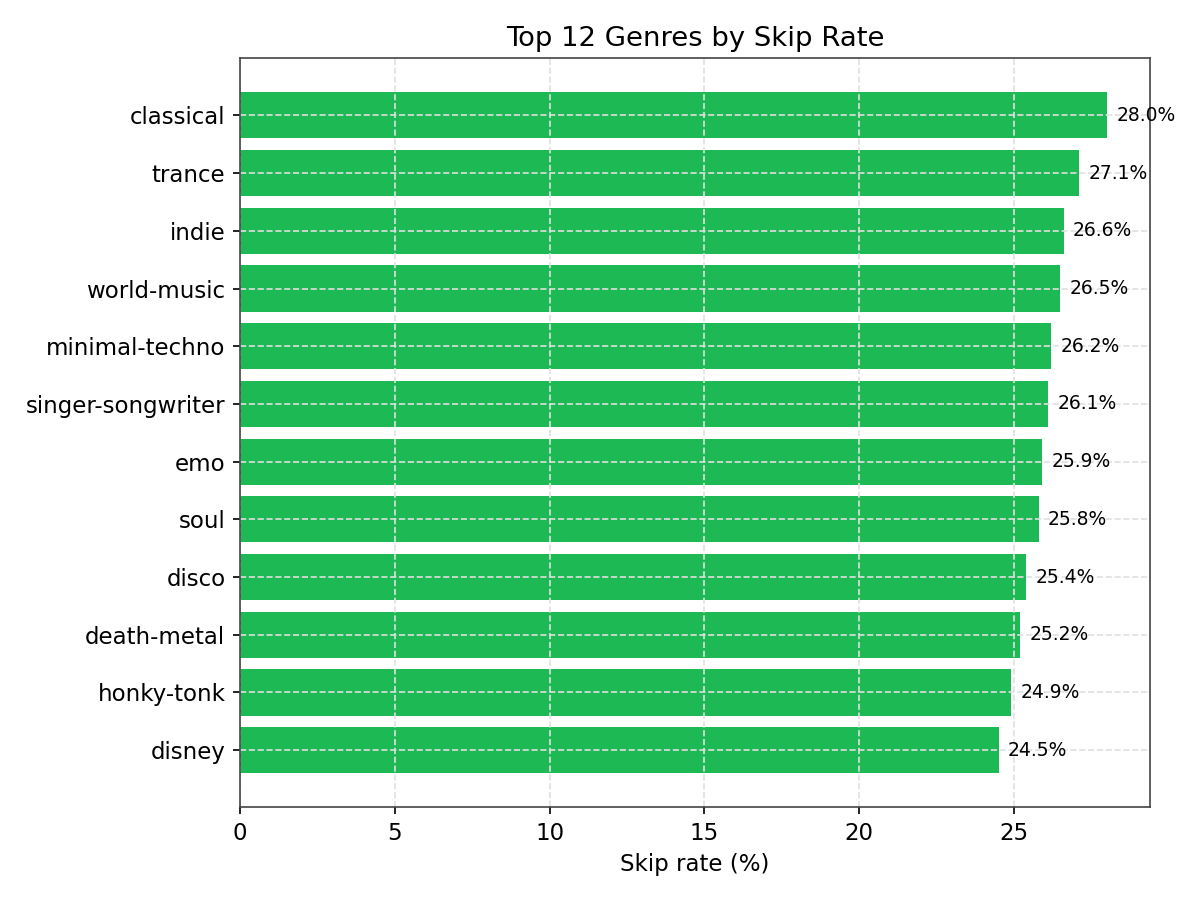
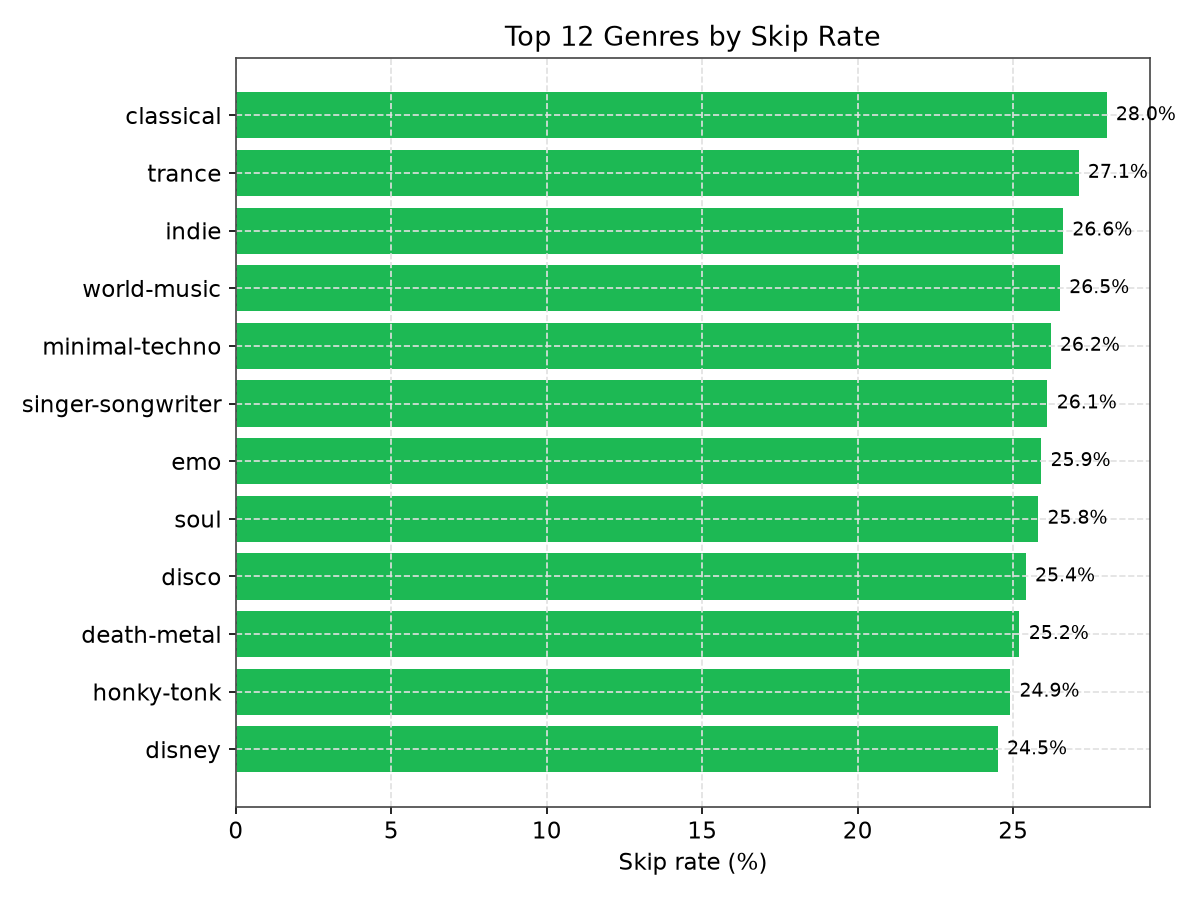
Regenerate charts, report, and dashboard; retitle design notes
Artifacts are now all produced by the same run against the same database,
so the dashboard summary matches insights_report.md. Chart PNGs differ in
bytes from the previous set purely because of the matplotlib version doing
the rendering; the underlying figures are unchanged.

Drops the interview framing from the design decisions heading.

diff --git a/dashboard.html b/dashboard.html
@@ -24,17 +24,20 @@
 <body>
 <header>
   <h1>Spotify Product Analytics Dashboard</h1>
-  <p>Generated 2026-07-26T01:44:11 &middot; SQL analysis + AI-generated insights</p>
+  <p>Generated 2026-08-10T12:58:58 &middot; SQL analysis + AI-generated insights</p>
 </header>
 
-<div class="summary">* Key findings:
-  * The most engaged quartile (Q1) plays 7.2x more than the least engaged quartile (Q4), with nearly identical skip rates, indicating a significant opportunity to increase overall engagement by targeting Q4 users.
-  * Free-plan users average 104.6 plays/user vs 99.1 for premium, with similar skip rates, suggesting that the free plan may be a more effective way to drive engagement.
-  * The decline in total plays (-17.4%) and active users (-20.7%) from week 1 to week 8 may be concentrated in specific genres or user segments, which could be mitigated by targeted interventions.
-* Connecting tables: The high skip rates in certain genres (e.g. classical, trance) may be related to the low engagement levels in the Q4 user segment, as these users may be more likely to skip tracks in genres they are less familiar with.
-* Risk: The significant decline in total plays and active users over the 8-week period (-17.4% and -20.7%, respectively) poses a risk to revenue and retention.
-* Opportunity: The high engagement levels of free-plan users (104.6 plays/user) present an opportunity to increase overall engagement and potentially drive revenue through targeted promotions or upselling.
-* Recommendation: Offer a limited-time promotion to Q4 users, providing them with a curated playlist of popular tracks in genres with low skip rates (e.g. reggaeton), to increase their engagement and encourage them to upgrade to a premium plan.</div>
+<div class="summary">* Key findings: 
+  * The most engaged quartile (Q1) plays 7.2x more than the least engaged quartile (Q4), with nearly identical skip rates, indicating a significant opportunity to increase engagement among lower-quartile users.
+  * Free-plan users average 104.6 plays/user vs 99.1 for premium, with similar skip rates, suggesting that the free plan may be driving more engagement.
+  * The 3.9-point spread in skip rates among high-skip genres (classical to spanish) may indicate opportunities to optimize content recommendations.
+* Connecting tables: 
+  * The decline in total plays (-17.4%) and active users (-20.7%) from week 1 to week 8 may be related to the concentration of engagement among power users (Q1), as the most engaged quartile plays significantly more than the others.
+* Risk and opportunity: 
+  * Risk: The retention rate dropped to 0% in week 8, indicating a significant issue with user retention that needs to be addressed (-20.7% change in active users).
+  * Opportunity: The high engagement among free-plan users (104.6 plays/user) presents an opportunity to convert these users to premium plans, potentially increasing revenue.
+* Recommendation: 
+  * Offer a limited-time promotion to free-plan users who have high engagement (e.g., >100 plays/user) to upgrade to a premium plan, potentially increasing revenue and retention among these users.</div>
 
 <div class="grid">
   <div class="card"><h3>Skip Rate by Genre (top 12)</h3><canvas id="chartSkip"></canvas></div>

diff --git a/insights_report.md b/insights_report.md
@@ -1,16 +1,19 @@
 # Spotify Product Analytics — Insights Report
-_Generated 2026-07-26T01:43:59_
+_Generated 2026-08-10T12:58:54_
 
 ## AI-Generated Summary
 
-* Key findings:
-  * The most engaged quartile (Q1) plays 7.2x more than the least engaged quartile (Q4), with nearly identical skip rates, indicating a significant opportunity to increase overall engagement by targeting Q4 users.
-  * Free-plan users average 104.6 plays/user vs 99.1 for premium, with similar skip rates, suggesting that the free plan may be a more effective way to drive engagement.
-  * The decline in total plays (-17.4%) and active users (-20.7%) from week 1 to week 8 may be concentrated in specific genres or user segments, which could be mitigated by targeted interventions.
-* Connecting tables: The high skip rates in certain genres (e.g. classical, trance) may be related to the low engagement levels in the Q4 user segment, as these users may be more likely to skip tracks in genres they are less familiar with.
-* Risk: The significant decline in total plays and active users over the 8-week period (-17.4% and -20.7%, respectively) poses a risk to revenue and retention.
-* Opportunity: The high engagement levels of free-plan users (104.6 plays/user) present an opportunity to increase overall engagement and potentially drive revenue through targeted promotions or upselling.
-* Recommendation: Offer a limited-time promotion to Q4 users, providing them with a curated playlist of popular tracks in genres with low skip rates (e.g. reggaeton), to increase their engagement and encourage them to upgrade to a premium plan.
+* Key findings: 
+  * The most engaged quartile (Q1) plays 7.2x more than the least engaged quartile (Q4), with nearly identical skip rates, indicating a significant opportunity to increase engagement among lower-quartile users.
+  * Free-plan users average 104.6 plays/user vs 99.1 for premium, with similar skip rates, suggesting that the free plan may be driving more engagement.
+  * The 3.9-point spread in skip rates among high-skip genres (classical to spanish) may indicate opportunities to optimize content recommendations.
+* Connecting tables: 
+  * The decline in total plays (-17.4%) and active users (-20.7%) from week 1 to week 8 may be related to the concentration of engagement among power users (Q1), as the most engaged quartile plays significantly more than the others.
+* Risk and opportunity: 
+  * Risk: The retention rate dropped to 0% in week 8, indicating a significant issue with user retention that needs to be addressed (-20.7% change in active users).
+  * Opportunity: The high engagement among free-plan users (104.6 plays/user) presents an opportunity to convert these users to premium plans, potentially increasing revenue.
+* Recommendation: 
+  * Offer a limited-time promotion to free-plan users who have high engagement (e.g., >100 plays/user) to upgrade to a premium plan, potentially increasing revenue and retention among these users.
 
 ---
 

diff --git a/README.md b/README.md
@@ -103,7 +103,7 @@ the insights script.
    This prints the summary and writes the full report to
    `insights_report.md`.
 
-## Design decisions worth knowing (in case you're asked)
+## Design notes
 
 - **Why SQLite, not Postgres/MySQL?** Zero setup — it's a single file, no
   server. All the SQL here (joins, CTEs, window functions) is standard and
